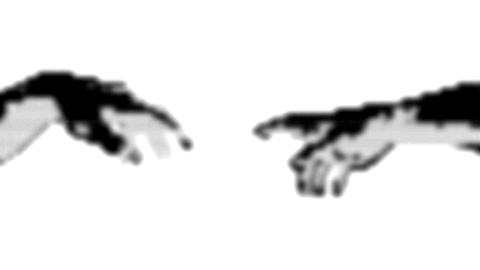
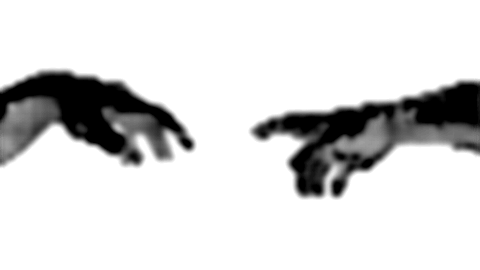
Loading hands drawn as rows of 0s and 1s from the new reference, spread apart so the copy and button sit between them

diff --git a/Build Your Own Garden/script.js b/Build Your Own Garden/script.js
@@ -157,9 +157,9 @@ function showPlayIfStopped() {
 }
 
 /* =========================================
-   GATE ART: 양쪽에서 서로를 향해 뻗는 두 손 (점으로 된 가로줄)
-   손 모양 지도(gate-hands.png: 진할수록 손)를 화면 폭에 맞춰 놓고,
-   가로줄마다 촘촘한 점을 찍음 — 진한 곳은 큰 점, 옅은 곳은 작은 점
+   GATE ART: 양쪽에서 서로를 향해 뻗는 두 손 (0과 1로 된 글자 줄)
+   손 모양 지도(gate-hands.png: 진할수록 손)를 화면에 맞춰 놓고,
+   칸마다 0 또는 1을 찍음 — 옅은 가장자리는 작은 점(.)
 ========================================= */
 
 const gateArt = document.querySelector("#gateArt");
@@ -179,17 +179,16 @@ function drawGateArt() {
   context.setTransform(ratio, 0, 0, ratio, 0, 0);
   context.clearRect(0, 0, width, height);
 
-  // 지도(16:9)를 화면 폭에 맞추고 세로 가운데 (세로가 짧은 화면은 높이에 맞춤)
+  // 지도(16:9)를 화면 폭에 맞추고 세로 가운데 (세로가 긴 화면은 높이에 맞춤)
   const mapW = Math.max(width, height * (16 / 9));
   const mapH = mapW * (9 / 16);
   const left = (width - mapW) / 2;
   const top = (height - mapH) / 2;
 
-  // 점 간격: 가로는 촘촘, 세로는 줄 간격 (참고 이미지 1200px 기준 7px · 13px)
-  const unit = mapW / 1200;
-  const gapX = 7 * unit;
-  const gapY = 13 * unit;
-  const maxR = 2.5 * unit;
+  // 글자 칸 (참고 이미지 1672px 기준 가로 9.5px · 줄 18px)
+  const unit = mapW / 1672;
+  const gapX = 9.5 * unit;
+  const gapY = 18 * unit;
 
   const cols = Math.ceil(width / gapX);
   const rows = Math.ceil(height / gapY);
@@ -198,19 +197,39 @@ function drawGateArt() {
   sample.height = rows;
   const s = sample.getContext("2d");
   s.imageSmoothingEnabled = true;
-  s.drawImage(handMap, left / gapX, top / gapY, mapW / gapX, mapH / gapY);
+
+  // 두 손 사이에 글과 버튼이 들어가도록: 왼손은 왼쪽으로, 오른손은 오른쪽으로 벌림
+  const copy = document.querySelector(".gate-copy");
+  const need = (copy ? copy.getBoundingClientRect().width : 600) + 70;
+  const LEFT_END = 0.405;   // 지도에서 왼손 끝 (가로 비율)
+  const RIGHT_START = 0.525; // 지도에서 오른손 시작
+  const SPLIT = 0.465;
+  // (작은 창에서는 손이 화면 밖으로 다 밀려나지 않게 벌리는 정도에 한도)
+  const spread = Math.min(0.19 * mapW, Math.max(0, (need - (RIGHT_START - LEFT_END) * mapW) / 2));
+  const mw = handMap.naturalWidth;
+  const mh = handMap.naturalHeight;
+  const half = (sx, sw, dx) =>
+    s.drawImage(handMap, sx * mw, 0, sw * mw, mh, (left + sx * mapW + dx) / gapX, top / gapY, (sw * mapW) / gapX, mapH / gapY);
+  half(0, SPLIT, -spread);
+  half(SPLIT, 1 - SPLIT, spread);
   const data = s.getImageData(0, 0, cols, rows).data;
 
+  // 칸마다 늘 같은 0/1 (다시 그려도 바뀌지 않게)
+  const bit = (c, r) => {
+    const v = Math.sin(c * 12.9898 + r * 78.233) * 43758.5453;
+    return v - Math.floor(v) < 0.5 ? "0" : "1";
+  };
+
+  context.font = `700 ${(gapY * 0.72).toFixed(2)}px "Courier New", Courier, monospace`;
+  context.textAlign = "center";
+  context.textBaseline = "middle";
   context.fillStyle = "#111111";
   for (let r = 0; r < rows; r++) {
     for (let c = 0; c < cols; c++) {
       const a = data[(r * cols + c) * 4 + 3] / 255;
-      if (a < 0.22) continue;
-      const strong = a > 0.6;
-      context.globalAlpha = strong ? 1 : 0.45 + a * 0.5;
-      context.beginPath();
-      context.arc((c + 0.5) * gapX, (r + 0.5) * gapY, maxR * (strong ? 1 : 0.6 + a * 0.45), 0, Math.PI * 2);
-      context.fill();
+      if (a < 0.2) continue;
+      context.globalAlpha = a > 0.55 ? 1 : 0.4 + a * 0.6;
+      context.fillText(a > 0.32 ? bit(c, r) : ".", (c + 0.5) * gapX, (r + 0.5) * gapY);
     }
   }
   context.globalAlpha = 1;

diff --git a/Build Your Own Garden/style.css b/Build Your Own Garden/style.css
@@ -513,11 +513,11 @@ body.is-falling .glass {
 .gate-copy {
   position: relative;
   z-index: 1;
-  padding: 18px 28px;
-  /* 점 그림 위에서도 글자가 잘 읽히도록 아주 옅은 흰 배경 */
-  background: radial-gradient(closest-side, rgba(255, 255, 255, 0.92), rgba(255, 255, 255, 0.75) 70%, rgba(255, 255, 255, 0));
-  width: min(760px, 100%);
-  margin-top: -6vh;
+  /* 작은 창에서 손과 겹쳐도 글자가 잘 읽히도록 흰 테두리 빛 */
+  text-shadow: 0 0 6px #ffffff, 0 0 12px #ffffff, 0 0 18px #ffffff;
+  padding: 0;
+  width: min(640px, 100%);
+  margin-top: 0;
   text-align: center;
 }
 
